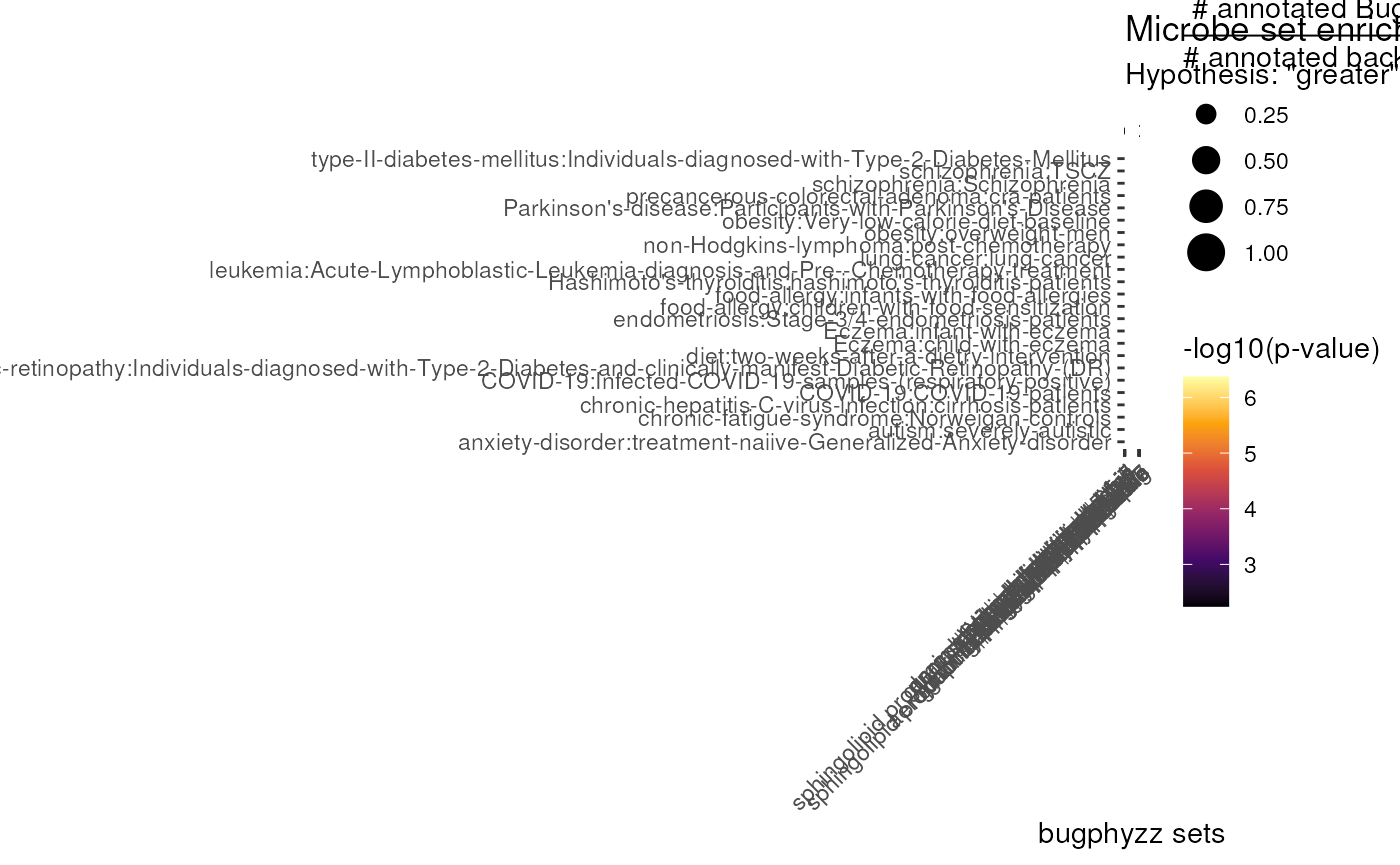
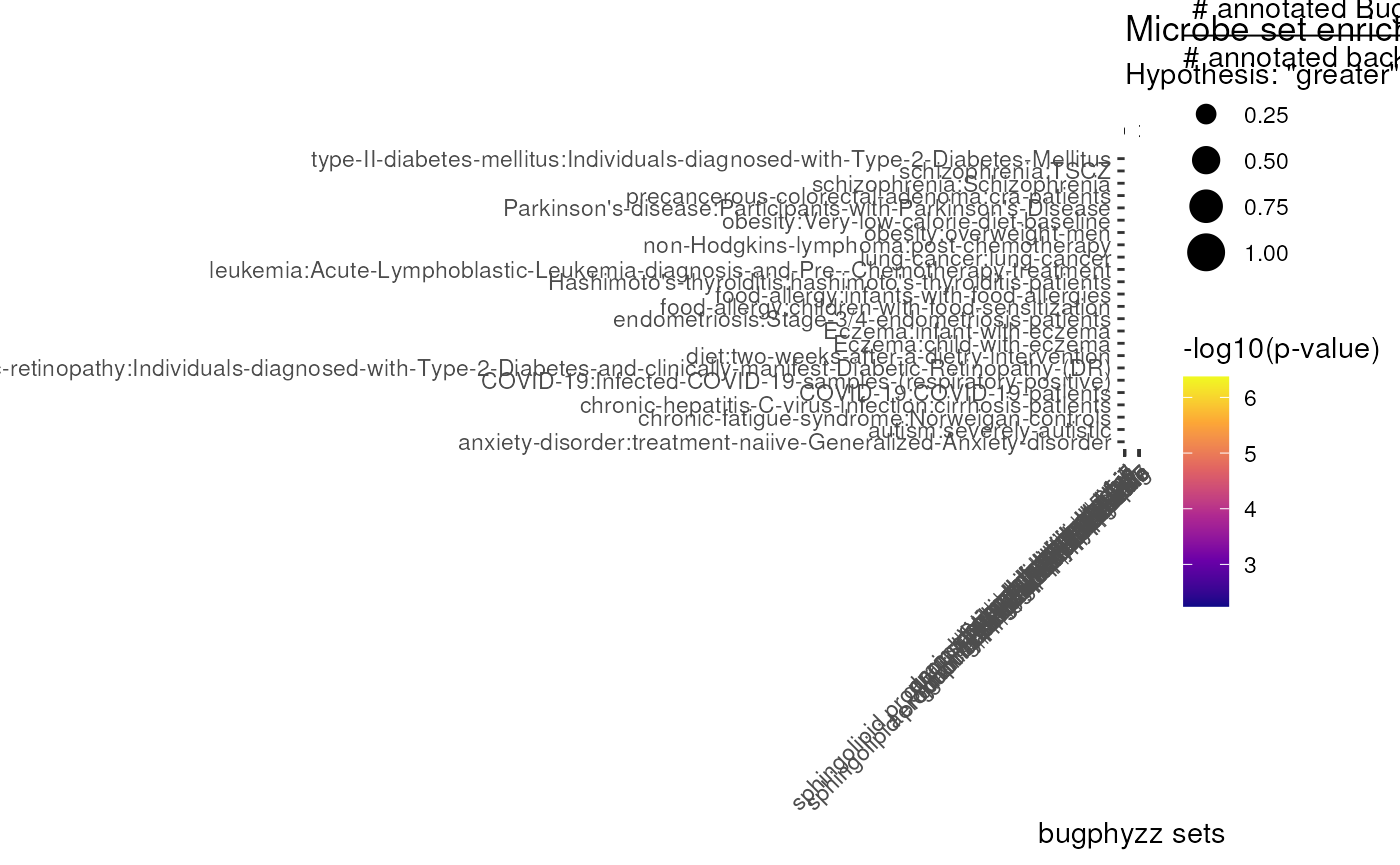
Deploying to gh-pages from @ waldronlab/bugphyzzAnalyses@3209d4e78e163b3141a5790157ea695c977895e3 🚀

Changed region(s): [[0.8293, 0.437, 0.8907, 0.7179]]

diff --git a/articles/stats.html b/articles/stats.html
@@ -154,8 +154,8 @@ format <code>\\w[0-9]{4}</code>:</p>
 <span>  <span class="fu"><a href="https://dplyr.tidyverse.org/reference/group_by.html" class="external-link">ungroup</a></span><span class="op">(</span><span class="op">)</span> <span class="op">|&gt;</span> </span>
 <span>  <span class="fu"><a href="https://dplyr.tidyverse.org/reference/rename.html" class="external-link">rename</a></span><span class="op">(</span>Sources <span class="op">=</span> <span class="va">Attribute_source</span><span class="op">)</span></span>
 <span><span class="fu"><a href="../reference/createDT.html">createDT</a></span><span class="op">(</span><span class="va">sources_cat</span><span class="op">)</span></span></code></pre></div>
-<div class="datatables html-widget html-fill-item-overflow-hidden html-fill-item" id="htmlwidget-a07c22cca629226bfa1d" style="width:100%;height:auto;"></div>
-<script type="application/json" data-for="htmlwidget-a07c22cca629226bfa1d">{"x":{"filter":"none","vertical":false,"extensions":["Buttons"],"data":[["BacMap","Bergey's Manual","Kegg","Literature","MiDAS","Microbial Fatty Acid Compositions","PATRIC","ProTraits","The Microbe Directory","https://github.com/bacteria-archaea-traits/bacteria-archaea-traits/tree/master/output/prepared_data"],["aerophilicity, arrangement, disease association, gram stain, growth temperature, habitat, isolation site, shape","aerophilicity, arrangement, gram stain, length, shape, sphingolipid producing, spore shape, width","coding genes, genome size","acetate producing, butyrate producing, habitat, health associated, hydrogen gas producing, lactate producing, mutation rate per site per generation, mutation rates per site per year, sphingolipid producing, spore shape","habitat","fatty acid compositions, growth medium, growth temperature","antimicrobial resistance","aerophilicity, arrangement, gram stain, habitat, shape","COGEM pathogenicity rating, animal pathogen, antimicrobial sensitivity, biofilm forming, extreme environment, gram stain, growth temperature, habitat, optimal ph, plant pathogenicity","aerophilicity, isolation site"]],"container":"<table class=\"display\">\n  <thead>\n    <tr>\n      <th>Sources<\/th>\n      <th>Attributes<\/th>\n    <\/tr>\n  <\/thead>\n<\/table>","options":{"dom":"Brti","buttons":[{"extend":"copy","title":null},{"extend":"csv","title":null},{"extend":"excel","title":null},{"extend":"pdf","title":null},{"extend":"print","title":null}],"columnDefs":[],"order":[],"autoWidth":false,"orderClasses":false}},"evals":[],"jsHooks":[]}</script><p>Create count table of all of the attributes</p>
+<div class="datatables html-widget html-fill-item-overflow-hidden html-fill-item" id="htmlwidget-a393ef1e8fbface9fba0" style="width:100%;height:auto;"></div>
+<script type="application/json" data-for="htmlwidget-a393ef1e8fbface9fba0">{"x":{"filter":"none","vertical":false,"extensions":["Buttons"],"data":[["BacMap","Bergey's Manual","Kegg","Literature","MiDAS","Microbial Fatty Acid Compositions","PATRIC","ProTraits","The Microbe Directory","https://github.com/bacteria-archaea-traits/bacteria-archaea-traits/tree/master/output/prepared_data"],["aerophilicity, arrangement, disease association, gram stain, growth temperature, habitat, isolation site, shape","aerophilicity, arrangement, gram stain, length, shape, sphingolipid producing, spore shape, width","coding genes, genome size","acetate producing, butyrate producing, habitat, health associated, hydrogen gas producing, lactate producing, mutation rate per site per generation, mutation rates per site per year, sphingolipid producing, spore shape","habitat","fatty acid compositions, growth medium, growth temperature","antimicrobial resistance","aerophilicity, arrangement, gram stain, habitat, shape","COGEM pathogenicity rating, animal pathogen, antimicrobial sensitivity, biofilm forming, extreme environment, gram stain, growth temperature, habitat, optimal ph, plant pathogenicity","aerophilicity, isolation site"]],"container":"<table class=\"display\">\n  <thead>\n    <tr>\n      <th>Sources<\/th>\n      <th>Attributes<\/th>\n    <\/tr>\n  <\/thead>\n<\/table>","options":{"dom":"Brti","buttons":[{"extend":"copy","title":null},{"extend":"csv","title":null},{"extend":"excel","title":null},{"extend":"pdf","title":null},{"extend":"print","title":null}],"columnDefs":[],"order":[],"autoWidth":false,"orderClasses":false}},"evals":[],"jsHooks":[]}</script><p>Create count table of all of the attributes</p>
 <div class="sourceCode" id="cb5"><pre class="downlit sourceCode r">
 <code class="sourceCode R"><span><span class="va">sources_counts</span> <span class="op">&lt;-</span> <span class="va">phys_sources_mod</span> <span class="op">|&gt;</span> </span>
 <span>  <span class="fu"><a href="https://purrr.tidyverse.org/reference/map.html" class="external-link">map</a></span><span class="op">(</span><span class="op">~</span> <span class="fu"><a href="https://dplyr.tidyverse.org/reference/count.html" class="external-link">count</a></span><span class="op">(</span><span class="va">.x</span>, <span class="va">Attribute_source</span><span class="op">)</span><span class="op">)</span> <span class="op">|&gt;</span> </span>

diff --git a/articles/ora_fisher_typical.html b/articles/ora_fisher_typical.html
@@ -412,9 +412,10 @@ with a BugSigDB microbe set.</p>
 <span>    <span class="fu"><a href="https://ggplot2.tidyverse.org/reference/aes.html" class="external-link">aes</a></span><span class="op">(</span></span>
 <span>      color <span class="op">=</span> <span class="op">-</span><span class="fu"><a href="https://rdrr.io/r/base/Log.html" class="external-link">log10</a></span><span class="op">(</span><span class="va">p_value</span><span class="op">)</span>,</span>
 <span>      size <span class="op">=</span> <span class="va">n_sig</span> <span class="op">/</span> <span class="va">n_background</span> </span>
-<span>    <span class="op">)</span></span>
+<span>    <span class="op">)</span>,</span>
+<span>    position <span class="op">=</span> <span class="st">'jitter'</span></span>
 <span>  <span class="op">)</span> <span class="op">+</span></span>
-<span>  <span class="fu"><a href="https://ggplot2.tidyverse.org/reference/scale_viridis.html" class="external-link">scale_color_viridis_c</a></span><span class="op">(</span>name <span class="op">=</span> <span class="st">'-log10(p-value)'</span>, option <span class="op">=</span> <span class="st">'B'</span><span class="op">)</span> <span class="op">+</span></span>
+<span>  <span class="fu"><a href="https://ggplot2.tidyverse.org/reference/scale_viridis.html" class="external-link">scale_color_viridis_c</a></span><span class="op">(</span>name <span class="op">=</span> <span class="st">'-log10(p-value)'</span>, option <span class="op">=</span> <span class="st">'C'</span><span class="op">)</span> <span class="op">+</span></span>
 <span>  <span class="fu"><a href="https://ggplot2.tidyverse.org/reference/scale_size.html" class="external-link">scale_size</a></span><span class="op">(</span></span>
 <span>    name <span class="op">=</span> <span class="fu"><a href="https://rdrr.io/r/base/expression.html" class="external-link">expression</a></span><span class="op">(</span></span>
 <span>    <span class="fu">frac</span><span class="op">(</span><span class="st">'# annotated BugSigDB'</span>, <span class="st">'# annotated background'</span><span class="op">)</span></span>

diff --git a/articles/subgingival_plaque.html b/articles/subgingival_plaque.html
@@ -172,7 +172,7 @@ plaque - WMS</h1>
 <span><span class="va">df</span></span>
 <span><span class="co">#&gt;                                                 aer aer_plus</span></span>
 <span><span class="co">#&gt; bugphyzz:aerophilicity|aerobic                 3420    10585</span></span>
-<span><span class="co">#&gt; bugphyzz:aerophilicity|anaerobic                281     1518</span></span>
+<span><span class="co">#&gt; bugphyzz:aerophilicity|anaerobic                281     1519</span></span>
 <span><span class="co">#&gt; bugphyzz:aerophilicity|facultatively anaerobic  352     1771</span></span></code></pre></div>
 <div class="sourceCode" id="cb8"><pre class="downlit sourceCode r">
 <code class="sourceCode R"><span><span class="fu"><a href="https://rdrr.io/r/base/mean.html" class="external-link">mean</a></span><span class="op">(</span><span class="fu"><a href="https://rdrr.io/r/base/colnames.html" class="external-link">rownames</a></span><span class="op">(</span><span class="va">tse_subset</span><span class="op">)</span> <span class="op"><a href="https://rdrr.io/r/base/match.html" class="external-link">%in%</a></span> <span class="va">aer</span><span class="op">$</span><span class="va">NCBI_ID</span><span class="op">)</span> <span class="op">*</span> <span class="fl">100</span></span>

diff --git a/articles/ibd-aerophilicity-enrichment.html b/articles/ibd-aerophilicity-enrichment.html
@@ -272,7 +272,7 @@ anaerobic:</p>
 <span><span class="va">df</span></span>
 <span><span class="co">#&gt;                                                 aer aer_plus</span></span>
 <span><span class="co">#&gt; bugphyzz:aerophilicity|aerobic                 3420    10585</span></span>
-<span><span class="co">#&gt; bugphyzz:aerophilicity|anaerobic                281     1518</span></span>
+<span><span class="co">#&gt; bugphyzz:aerophilicity|anaerobic                281     1519</span></span>
 <span><span class="co">#&gt; bugphyzz:aerophilicity|facultatively anaerobic  352     1771</span></span>
 <span><span class="co">#&gt; bugphyzz:aerophilicity|obligately aerobic       456      177</span></span>
 <span><span class="co">#&gt; bugphyzz:aerophilicity|obligately anaerobic     581     1047</span></span></code></pre></div>
